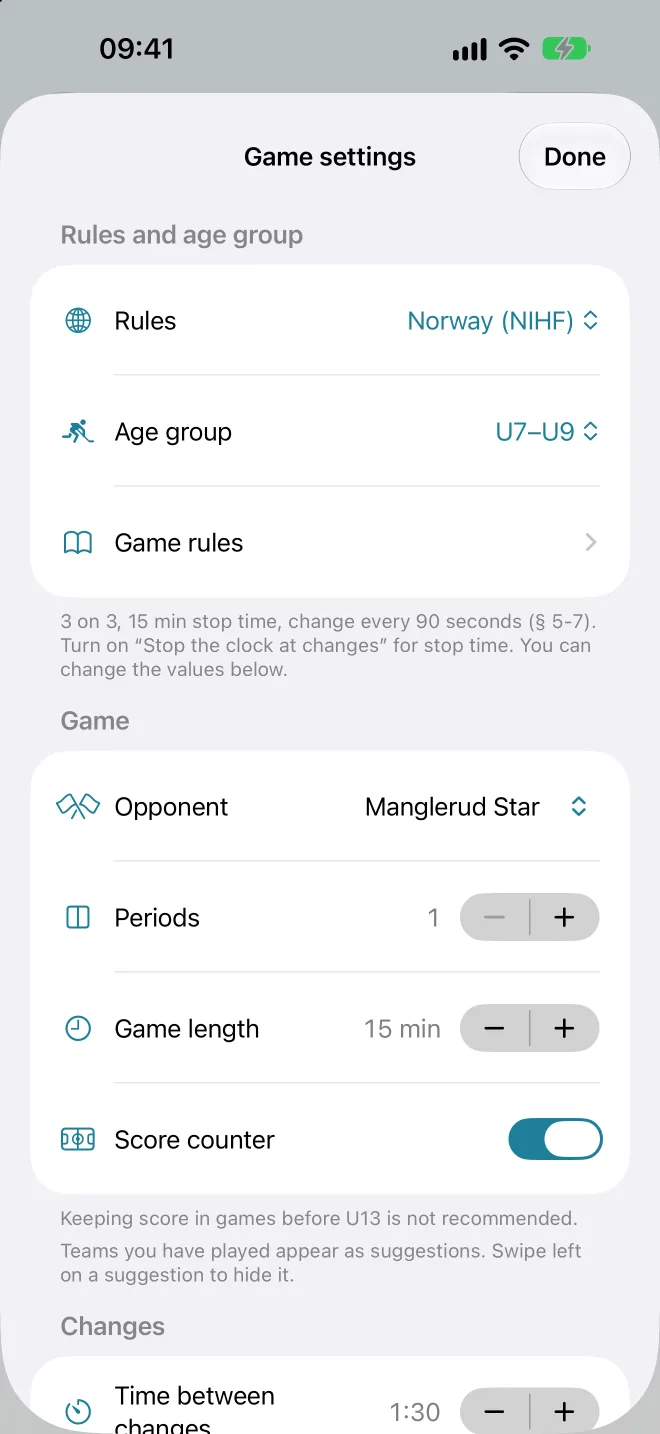
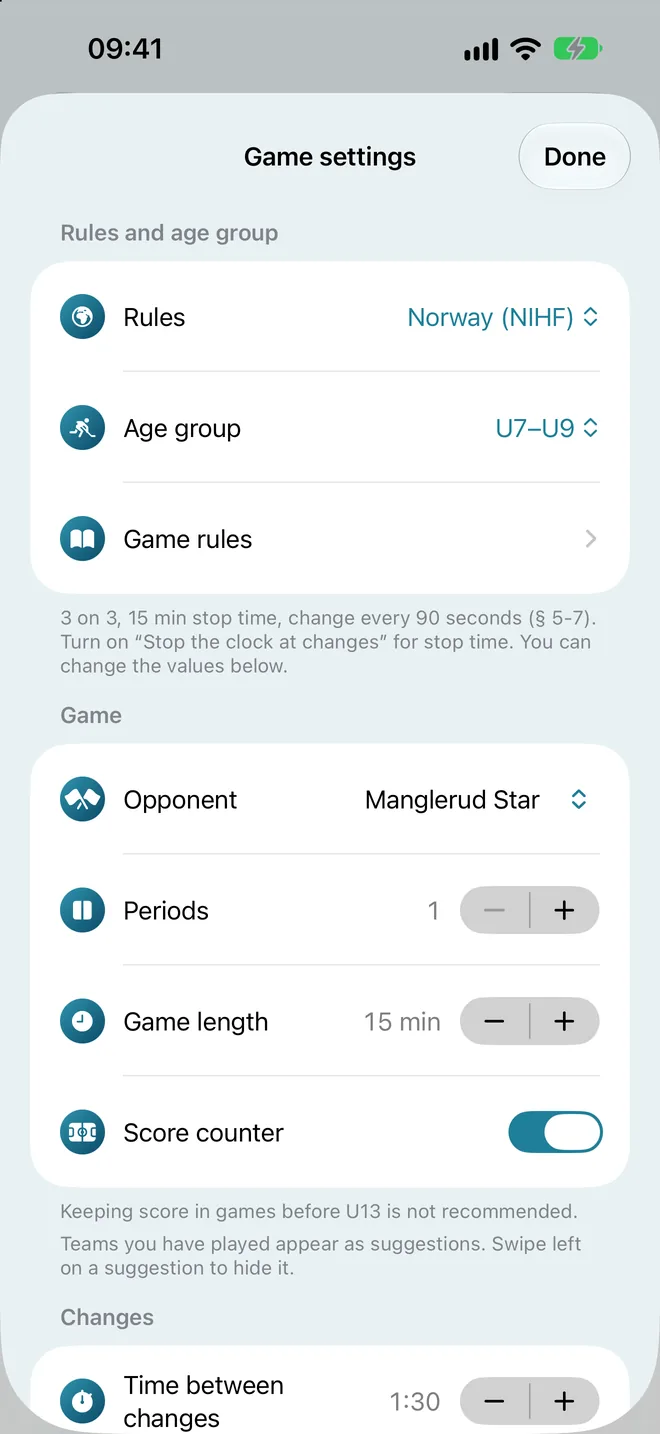
Nye Kampoppsett-bilder fra 1.6 på nettsiden (webp + v=3)
Claude-Session: https://claude.ai/code/session_01LR5e8MxEcBM8orTVazzgP7

diff --git a/sv/manual.html b/sv/manual.html
@@ -196,11 +196,11 @@
       </div>
       <div class="shots">
         <figure>
-          <div class="phone"><div class="screen"><img src="../bilder/skjermbilder/web/07-kampoppsett.webp?v=2" width="660" height="1434" loading="lazy" alt="Matchinställningar med regelverket Norge (NIHF), åldersklass U7–U9, matchregler, motståndare, matchlängd och byten"></div></div>
+          <div class="phone"><div class="screen"><img src="../bilder/skjermbilder/web/07-kampoppsett.webp?v=3" width="660" height="1434" loading="lazy" alt="Matchinställningar med regelverket Norge (NIHF), åldersklass U7–U9, matchregler, motståndare, matchlängd och byten"></div></div>
           <figcaption>Matchinställningar med U7–U9 valt</figcaption>
         </figure>
         <figure>
-          <div class="phone"><div class="screen"><img src="../bilder/skjermbilder/web/12-under-kampen.webp?v=2" width="660" height="1434" loading="lazy" alt="Matchinställningar med Målvakt och reglagen under Under matchen"></div></div>
+          <div class="phone"><div class="screen"><img src="../bilder/skjermbilder/web/12-under-kampen.webp?v=3" width="660" height="1434" loading="lazy" alt="Matchinställningar med Målvakt och reglagen under Under matchen"></div></div>
           <figcaption>Valen under ”Under matchen”</figcaption>
         </figure>
       </div>

diff --git a/en/manual.html b/en/manual.html
@@ -197,11 +197,11 @@
       </div>
       <div class="shots">
         <figure>
-          <div class="phone"><div class="screen"><img src="../bilder/skjermbilder/en/web/07-kampoppsett.webp?v=2" width="660" height="1434" loading="lazy" alt="Game settings with rules Norway (NIHF), age group U7–U9, game rules, opponent, game length and line changes"></div></div>
+          <div class="phone"><div class="screen"><img src="../bilder/skjermbilder/en/web/07-kampoppsett.webp?v=3" width="660" height="1434" loading="lazy" alt="Game settings with rules Norway (NIHF), age group U7–U9, game rules, opponent, game length and line changes"></div></div>
           <figcaption>Kampoppsett with U7–U9 selected</figcaption>
         </figure>
         <figure>
-          <div class="phone"><div class="screen"><img src="../bilder/skjermbilder/en/web/12-under-kampen.webp?v=2" width="660" height="1434" loading="lazy" alt="Game settings with the goalie section and the during-the-game switches"></div></div>
+          <div class="phone"><div class="screen"><img src="../bilder/skjermbilder/en/web/12-under-kampen.webp?v=3" width="660" height="1434" loading="lazy" alt="Game settings with the goalie section and the during-the-game switches"></div></div>
           <figcaption>Under kampen (during the game)</figcaption>
         </figure>
       </div>

diff --git a/manual.html b/manual.html
@@ -196,11 +196,11 @@
       </div>
       <div class="shots">
         <figure>
-          <div class="phone"><div class="screen"><img src="bilder/skjermbilder/web/07-kampoppsett.webp?v=2" width="660" height="1434" loading="lazy" alt="Kampoppsett med reglement Norge (NIHF), klasse U7–U9, kampregler, motstander, kamplengde og bytter"></div></div>
+          <div class="phone"><div class="screen"><img src="bilder/skjermbilder/web/07-kampoppsett.webp?v=3" width="660" height="1434" loading="lazy" alt="Kampoppsett med reglement Norge (NIHF), klasse U7–U9, kampregler, motstander, kamplengde og bytter"></div></div>
           <figcaption>Kampoppsett med U7–U9 valgt</figcaption>
         </figure>
         <figure>
-          <div class="phone"><div class="screen"><img src="bilder/skjermbilder/web/12-under-kampen.webp?v=2" width="660" height="1434" loading="lazy" alt="Kampoppsett med Målvakt og bryterne under Under kampen"></div></div>
+          <div class="phone"><div class="screen"><img src="bilder/skjermbilder/web/12-under-kampen.webp?v=3" width="660" height="1434" loading="lazy" alt="Kampoppsett med Målvakt og bryterne under Under kampen"></div></div>
           <figcaption>«Under kampen»-valgene</figcaption>
         </figure>
       </div>

diff --git a/sv/index.html b/sv/index.html
@@ -282,7 +282,7 @@
           <figcaption>Låsskärmen<span>Byt utan att låsa upp</span></figcaption>
         </figure>
         <figure>
-          <div class="phone"><div class="screen"><img src="../bilder/skjermbilder/web/07-kampoppsett.webp?v=2" width="660" height="1434" loading="lazy" alt="Matchinställningar med regelverk Norge (NIHF), åldersklass U7–U9, matchregler och inställningar för byten"></div></div>
+          <div class="phone"><div class="screen"><img src="../bilder/skjermbilder/web/07-kampoppsett.webp?v=3" width="660" height="1434" loading="lazy" alt="Matchinställningar med regelverk Norge (NIHF), åldersklass U7–U9, matchregler och inställningar för byten"></div></div>
           <figcaption>Matchinställningar<span>Reglerna för åldersklassen</span></figcaption>
         </figure>
         <figure>

diff --git a/en/index.html b/en/index.html
@@ -281,7 +281,7 @@
           <figcaption>Lock screen<span>Change without unlocking</span></figcaption>
         </figure>
         <figure>
-          <div class="phone"><div class="screen"><img src="../bilder/skjermbilder/en/web/07-kampoppsett.webp?v=2" width="660" height="1434" loading="lazy" alt="Game settings with rules Norway (NIHF), age group U7–U9, game rules and line change settings"></div></div>
+          <div class="phone"><div class="screen"><img src="../bilder/skjermbilder/en/web/07-kampoppsett.webp?v=3" width="660" height="1434" loading="lazy" alt="Game settings with rules Norway (NIHF), age group U7–U9, game rules and line change settings"></div></div>
           <figcaption>Game settings<span>Rules for the age group</span></figcaption>
         </figure>
         <figure>

diff --git a/index.html b/index.html
@@ -281,7 +281,7 @@
           <figcaption>Låseskjermen<span>Bytt uten å låse opp</span></figcaption>
         </figure>
         <figure>
-          <div class="phone"><div class="screen"><img src="bilder/skjermbilder/web/07-kampoppsett.webp?v=2" width="660" height="1434" loading="lazy" alt="Kampoppsett med reglement Norge (NIHF), klasse U7–U9, kampregler og innstillinger for bytter"></div></div>
+          <div class="phone"><div class="screen"><img src="bilder/skjermbilder/web/07-kampoppsett.webp?v=3" width="660" height="1434" loading="lazy" alt="Kampoppsett med reglement Norge (NIHF), klasse U7–U9, kampregler og innstillinger for bytter"></div></div>
           <figcaption>Kampoppsett<span>Reglene for klassen</span></figcaption>
         </figure>
         <figure>
